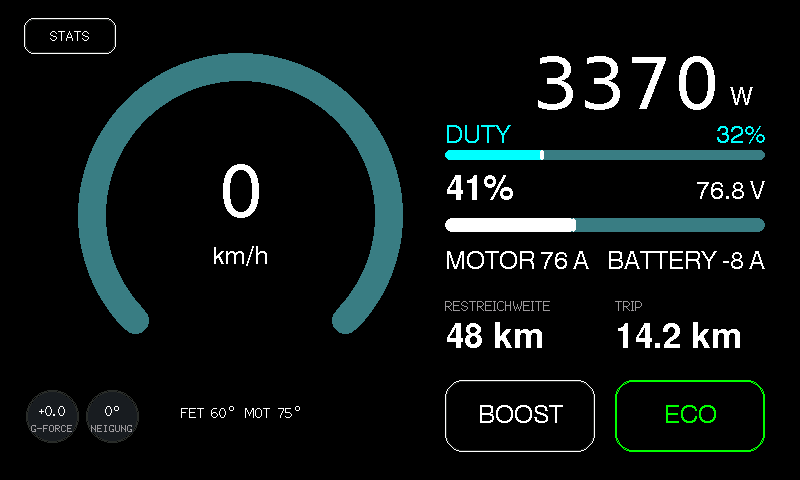
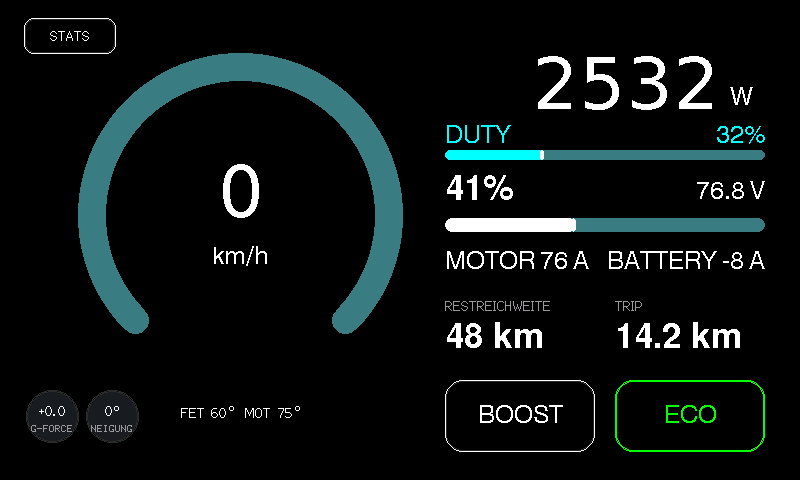
feat(boost): dynamically command 70A battery current during boost instead of 60A standard

Changed region(s): [[0.6562, 0.125, 0.9062, 0.25]]

diff --git a/src/main.cpp b/src/main.cpp
@@ -516,8 +516,10 @@ void loop() {
                         telemetry.ride_mode = MODE_RACE;
                         ModeManager::instance().setRideMode(MODE_RACE);
                         telemetry.boost_active = true;
+                        ModeManager::instance().setBoostActive(true);
                     } else {
                         telemetry.boost_active = false;
+                        ModeManager::instance().setBoostActive(false);
                     }
                     telemetry.boost_end_ms = now + 60000;
                     Renderer.markScreenDirty();
@@ -552,6 +554,7 @@ void loop() {
                     telemetry.ride_mode = MODE_RACE;
                     ModeManager::instance().setRideMode(MODE_RACE);
                     telemetry.boost_active = true;
+                    ModeManager::instance().setBoostActive(true);
                     telemetry.boost_end_ms = now + 60000;
                     telemetry.race_state = 1; // COUNTDOWN (5s)
                     telemetry.race_countdown_start_ms = now;
@@ -569,6 +572,7 @@ void loop() {
                     telemetry.ride_mode = telemetry.saved_ride_mode;
                     ModeManager::instance().setRideMode(telemetry.saved_ride_mode);
                     telemetry.boost_active = false;
+                    ModeManager::instance().setBoostActive(false);
                     Buttons.setRaceState(0);
                     Renderer.markScreenDirty();
                     Serial.println("[RACE] Launch timer stopped/aborted (restored mode & boost off)");
@@ -580,6 +584,7 @@ void loop() {
                         telemetry.ride_mode = telemetry.saved_ride_mode;
                         ModeManager::instance().setRideMode(telemetry.saved_ride_mode);
                         telemetry.boost_active = false;
+                        ModeManager::instance().setBoostActive(false);
                         telemetry.race_popup_open = false;
                         Buttons.setRaceState(0);
                         Buttons.setRacePopupOpen(false);
@@ -602,6 +607,7 @@ void loop() {
                     if (telemetry.boost_active) {
                         telemetry.boost_end_ms = now + 10000;
                     }
+                    ModeManager::instance().setBoostActive(telemetry.boost_active);
                     if (telemetry.throttle_pct <= 0.01f && telemetry.speed_kmh <= 0.5f) {
                         telemetry.speed_kmh = 0.0f;
                         telemetry.power_watts = 0.0f;
@@ -609,7 +615,9 @@ void loop() {
                         telemetry.phase_amps = 0.0f;
                     }
                     Renderer.markScreenDirty();
-                    Serial.printf("[NAV] Toggled Hyper Boost: %s\n", telemetry.boost_active ? "ACTIVE" : "OFF");
+                    Serial.printf("[NAV] Toggled Hyper Boost: %s (Battery Limit: %.1f A)\n",
+                                  telemetry.boost_active ? "ACTIVE (70A)" : "OFF (60A)",
+                                  ModeManager::instance().getActiveLimits().max_battery_amps);
                     break;
 
                 case NAV_TUNING_ENABLE:
@@ -625,13 +633,14 @@ void loop() {
                     telemetry.tuning_mode = false;
                     Buttons.setTuningMode(false);
                     ModeManager::instance().setTuningMode(false);
+                    telemetry.boost_active = false;
+                    ModeManager::instance().setBoostActive(false);
                     telemetry.mode_badge_until = now + 2500;
                     if (telemetry.screen == SCREEN_RACE_TIMER) {
                         telemetry.screen = SCREEN_RIDE_DASH;
                         telemetry.race_state = 0;
                         telemetry.ride_mode = telemetry.saved_ride_mode;
                         ModeManager::instance().setRideMode(telemetry.saved_ride_mode);
-                        telemetry.boost_active = false;
                         telemetry.race_popup_open = false;
                         Buttons.setRaceState(0);
                         Buttons.setRacePopupOpen(false);
@@ -684,7 +693,9 @@ void loop() {
     // Boost timer expiration check (10s max duration on ride dash)
     if (telemetry.screen != SCREEN_RACE_TIMER && telemetry.boost_active && now > telemetry.boost_end_ms) {
         telemetry.boost_active = false;
+        ModeManager::instance().setBoostActive(false);
         Renderer.markScreenDirty();
+        Serial.println("[TIMER] Hyper Boost timed out (10s limit reached, restored 60A battery limit)");
     }
 
     // Record waveform curves every 1000ms

diff --git a/src/dash_renderer.cpp b/src/dash_renderer.cpp
@@ -536,7 +536,10 @@ void DashboardRenderer::renderHyper35kwStyle(const DashTelemetry &telemetry) {
         _anim_power += (telemetry.power_watts - _anim_power) * k_pwr;
         _anim_duty  += (telemetry.duty_cycle_pct - _anim_duty) * k;
     }
-    if (telemetry.speed_kmh == 0.0f) _anim_speed = 0.0f;
+    if (telemetry.speed_kmh == 0.0f) {
+        _anim_speed = 0.0f;
+        if (telemetry.power_watts == 0.0f) _anim_power = 0.0f;
+    }
     if (fabsf(_anim_power) < 15.0f && telemetry.speed_kmh < 0.5f) _anim_power = 0.0f;
     if (telemetry.duty_cycle_pct == 0.0f) _anim_duty = 0.0f;
 
@@ -1811,8 +1814,8 @@ void DashboardRenderer::handleMenuNav(NavAction action, DashTelemetry &telemetry
         VehicleModeConfig &cfg = ModeManager::instance().getConfig();
         uint8_t m = (_settings_tab_idx < 3) ? _settings_tab_idx : 1;
         for (int i = 0; i < 3; i++) {
-            if (cfg.tuned_modes[i].max_battery_amps < 95.0f) cfg.tuned_modes[i].max_battery_amps = 95.0f;
-            if (cfg.tuned_modes[i].max_phase_amps < 220.0f) cfg.tuned_modes[i].max_phase_amps = 220.0f;
+            if (cfg.tuned_modes[i].max_battery_amps < 60.0f) cfg.tuned_modes[i].max_battery_amps = 60.0f;
+            if (cfg.tuned_modes[i].max_phase_amps < 120.0f) cfg.tuned_modes[i].max_phase_amps = 120.0f;
             if (cfg.tuned_modes[i].max_pull_watts < cfg.tuned_modes[i].max_power_watts) {
                 cfg.tuned_modes[i].max_pull_watts = cfg.tuned_modes[i].max_power_watts * 1.25f;
             }
@@ -2178,6 +2181,7 @@ void DashboardRenderer::updateRaceTimer(DashTelemetry &telemetry, uint32_t now) 
         if (telemetry.race_state != 0) {
             telemetry.race_state = 0;
             telemetry.boost_active = false;
+            ModeManager::instance().setBoostActive(false);
             Buttons.setRaceState(0);
         }
         return;
@@ -2188,6 +2192,7 @@ void DashboardRenderer::updateRaceTimer(DashTelemetry &telemetry, uint32_t now) 
         if (telemetry.race_state == 1 || telemetry.race_state == 2) {
             telemetry.race_state = 0; // IDLE / ABORT
             telemetry.boost_active = false;
+            ModeManager::instance().setBoostActive(false);
             telemetry.ride_mode = telemetry.saved_ride_mode;
             ModeManager::instance().setRideMode(telemetry.saved_ride_mode);
             Buttons.setRaceState(0);
@@ -2198,6 +2203,7 @@ void DashboardRenderer::updateRaceTimer(DashTelemetry &telemetry, uint32_t now) 
 
     if (telemetry.race_state == 1) { // 1 = COUNTDOWN (5s)
         telemetry.boost_active = true;
+        ModeManager::instance().setBoostActive(true);
         telemetry.boost_end_ms = now + 10000;
         uint32_t elapsed_cd = now - telemetry.race_countdown_start_ms;
         telemetry.race_elapsed_sec = (float)elapsed_cd / 1000.0f;
@@ -2213,6 +2219,7 @@ void DashboardRenderer::updateRaceTimer(DashTelemetry &telemetry, uint32_t now) 
         }
     } else if (telemetry.race_state == 2) { // 2 = MEASURING
         telemetry.boost_active = true;
+        ModeManager::instance().setBoostActive(true);
         telemetry.boost_end_ms = now + 10000;
         telemetry.race_elapsed_sec = (float)(now - telemetry.race_launch_start_ms) / 1000.0f;
 
@@ -2243,6 +2250,7 @@ void DashboardRenderer::updateRaceTimer(DashTelemetry &telemetry, uint32_t now) 
             }
             telemetry.race_state = 3; // FINISHED
             telemetry.boost_active = false;
+            ModeManager::instance().setBoostActive(false);
             telemetry.ride_mode = telemetry.saved_ride_mode;
             ModeManager::instance().setRideMode(telemetry.saved_ride_mode);
             Buttons.setRaceState(3);
@@ -2253,6 +2261,7 @@ void DashboardRenderer::updateRaceTimer(DashTelemetry &telemetry, uint32_t now) 
         if (telemetry.race_elapsed_sec >= 15.0f) {
             telemetry.race_state = 3; // FINISHED
             telemetry.boost_active = false;
+            ModeManager::instance().setBoostActive(false);
             telemetry.ride_mode = telemetry.saved_ride_mode;
             ModeManager::instance().setRideMode(telemetry.saved_ride_mode);
             Buttons.setRaceState(3);

diff --git a/src/mode_manager.cpp b/src/mode_manager.cpp
@@ -8,6 +8,7 @@ ModeManager& ModeManager::instance() {
 
 ModeManager::ModeManager()
     : _tuning_mode(false),
+      _boost_active(false),
       _is_locked(false),
       _ride_mode(MODE_ECO),
       _limits_dirty(false) {
@@ -55,15 +56,15 @@ void ModeManager::setFactoryDefaults() {
     _config.tuned_modes[PROFILE_MODE_SPORT].max_speed_kmh    = 55.0f;
     _config.tuned_modes[PROFILE_MODE_SPORT].max_power_watts  = 3500.0f;
     _config.tuned_modes[PROFILE_MODE_SPORT].max_pull_watts   = 5000.0f;
-    _config.tuned_modes[PROFILE_MODE_SPORT].max_battery_amps = 55.0f;
-    _config.tuned_modes[PROFILE_MODE_SPORT].max_phase_amps   = 110.0f;
+    _config.tuned_modes[PROFILE_MODE_SPORT].max_battery_amps = 60.0f;
+    _config.tuned_modes[PROFILE_MODE_SPORT].max_phase_amps   = 120.0f;
 
-    // 2: Tuned RACE (Full Performance 35kW+ Output)
+    // 2: Tuned RACE (Full Performance 85+ km/h Output)
     _config.tuned_modes[PROFILE_MODE_RACE].max_speed_kmh    = 85.0f;
     _config.tuned_modes[PROFILE_MODE_RACE].max_power_watts  = 15000.0f;
     _config.tuned_modes[PROFILE_MODE_RACE].max_pull_watts   = 25000.0f;
-    _config.tuned_modes[PROFILE_MODE_RACE].max_battery_amps = 95.0f;
-    _config.tuned_modes[PROFILE_MODE_RACE].max_phase_amps   = 220.0f;
+    _config.tuned_modes[PROFILE_MODE_RACE].max_battery_amps = 60.0f;
+    _config.tuned_modes[PROFILE_MODE_RACE].max_phase_amps   = 140.0f;
 
     // Global parameters
     _config.throttle_curve       = 0;     // 0 = Linear
@@ -75,15 +76,16 @@ void ModeManager::setFactoryDefaults() {
 void ModeManager::begin() {
     // Boot state is ALWAYS legal mode (ungetunt / gedrosselt, dot lit)
     _tuning_mode = false;
+    _boost_active = false;
     _ride_mode   = MODE_SPORT;
     _limits_dirty = false;
 
     _prefs.begin("vesc_modes", false);
-    if (!_prefs.isKey("cfg_v2")) {
+    if (!_prefs.isKey("cfg_v3")) {
         setFactoryDefaults();
         saveToNvs();
-        _prefs.putBool("cfg_v2", true);
-        Serial.println("[MODE_MGR] Initialized factory default vehicle & mode profiles (v2) in NVS.");
+        _prefs.putBool("cfg_v3", true);
+        Serial.println("[MODE_MGR] Initialized factory default vehicle & mode profiles (v3: 60A / 70A Boost) in NVS.");
     } else {
         loadFromNvs();
         Serial.println("[MODE_MGR] Loaded vehicle & mode configurations from NVS.");
@@ -199,6 +201,17 @@ void ModeManager::setTuningMode(bool enable) {
     }
 }
 
+void ModeManager::setBoostActive(bool enable) {
+    if (_boost_active != enable) {
+        _boost_active = enable;
+        _limits_dirty = true;
+        Serial.printf("[MODE_MGR] Hyper Boost switched to: %s -> Battery Limit: %.1f A\n",
+                      enable ? "ON (70A)" : "OFF (60A)",
+                      enable ? 70.0f : 60.0f);
+        applyLimitsToVesc();
+    }
+}
+
 void ModeManager::setLocked(bool locked) {
     if (_is_locked != locked) {
         _is_locked = locked;
@@ -232,13 +245,33 @@ ModeLimits ModeManager::getActiveLimits() const {
     int idx = (int)_ride_mode % PROFILE_MODE_COUNT;
     if (idx < 0) idx = 0;
 
+    ModeLimits lim;
     if (!_tuning_mode) {
         // Legal street limits (ECO 15, SPORT 20, RACE 22)
-        return _config.legal_modes[idx];
+        lim = _config.legal_modes[idx];
     } else {
         // Tuning mode unlocked limits (ECO, SPORT, RACE)
-        return _config.tuned_modes[idx];
+        lim = _config.tuned_modes[idx];
     }
+
+    if (_boost_active) {
+        // Boost requested by user: exactly 70A battery current (statt 60A)
+        lim.max_battery_amps = 70.0f;
+        if (lim.max_phase_amps < 140.0f) {
+            lim.max_phase_amps = 140.0f;
+        }
+        if (lim.max_power_watts < 4000.0f) {
+            lim.max_power_watts = 4000.0f;
+        }
+    } else if (_tuning_mode) {
+        // Normal tuned mode: 60A battery current (statt 60A -> 70A)
+        lim.max_battery_amps = 60.0f;
+        if (lim.max_phase_amps < 120.0f) {
+            lim.max_phase_amps = 120.0f;
+        }
+    }
+
+    return lim;
 }
 
 const char* ModeManager::getActiveModeName() const {

diff --git a/include/mode_manager.h b/include/mode_manager.h
@@ -44,6 +44,9 @@ public:
     bool isTuningMode() const { return _tuning_mode; }
     void setTuningMode(bool enable);
 
+    bool isBoostActive() const { return _boost_active; }
+    void setBoostActive(bool active);
+
     bool isLocked() const { return _is_locked; }
     void setLocked(bool locked);
 
@@ -66,6 +69,7 @@ private:
     ModeManager();
     VehicleModeConfig _config;
     volatile bool _tuning_mode;
+    volatile bool _boost_active;
     volatile bool _is_locked;
     volatile RideMode _ride_mode;
     volatile bool _limits_dirty;
